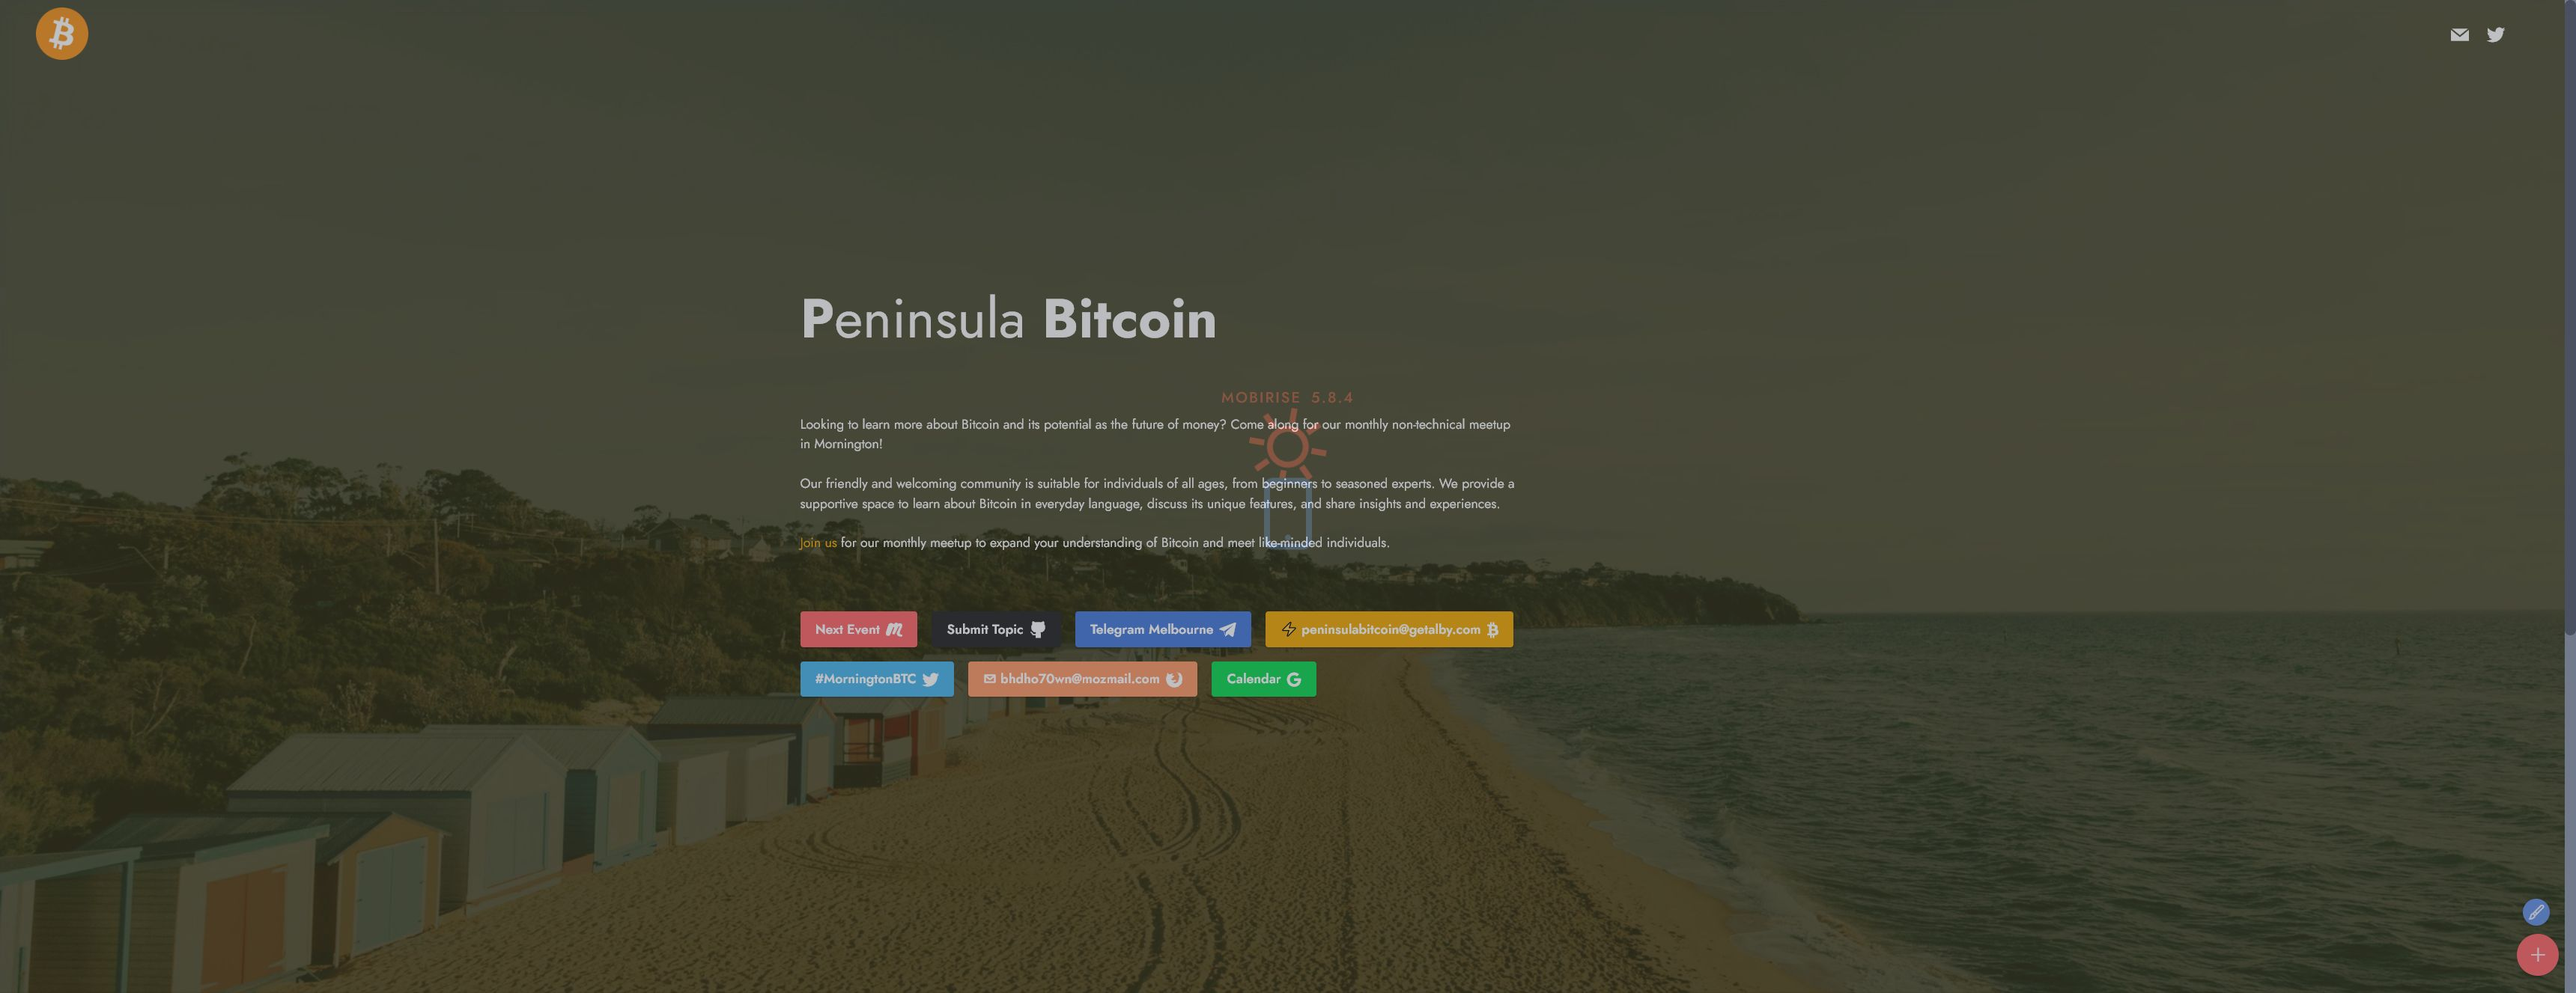
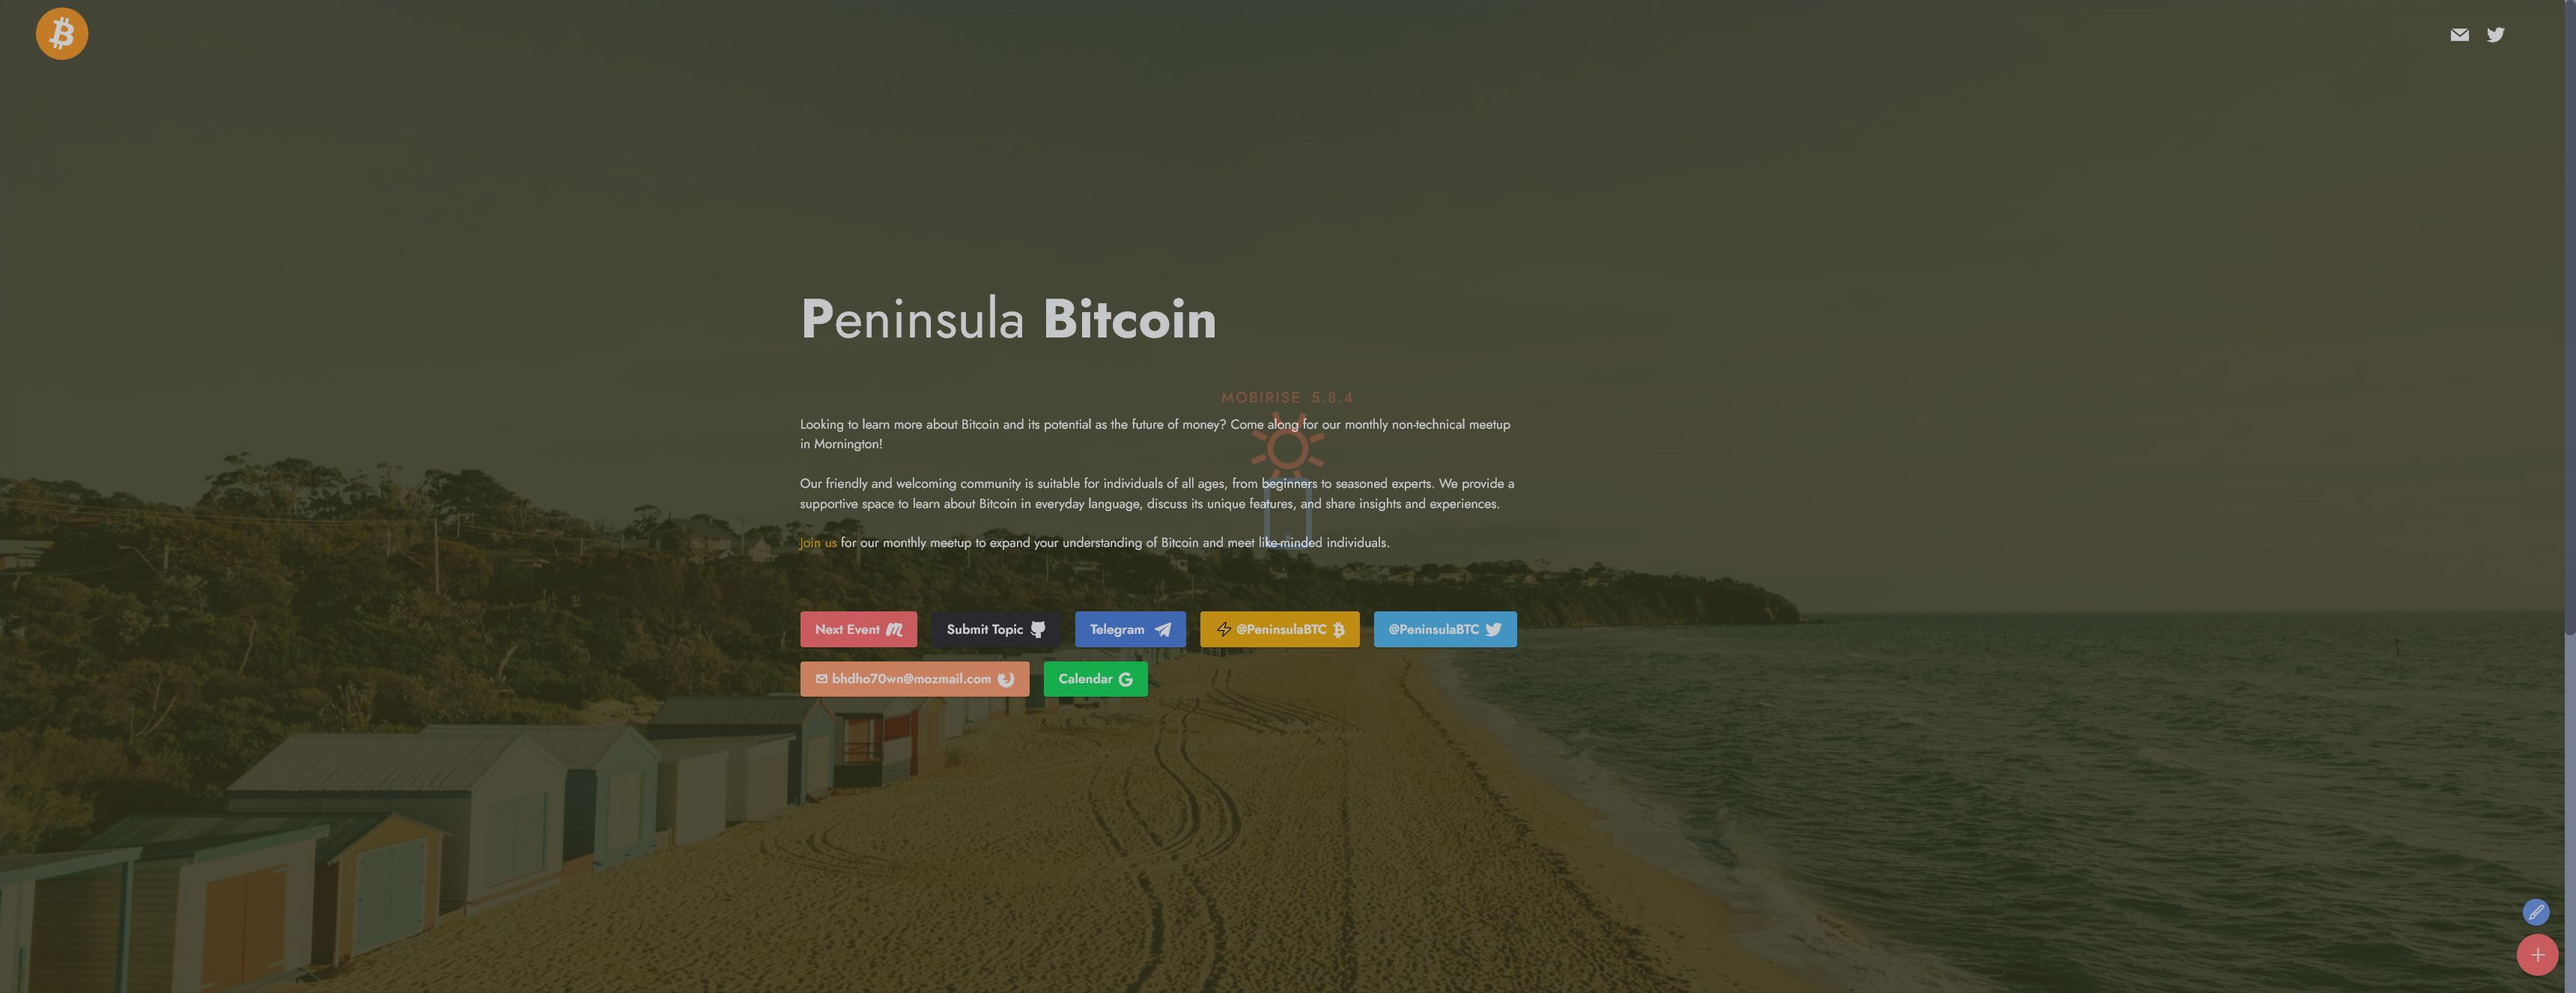
update
update

Changed region(s): [[0.311, 0.6179, 0.591, 0.7106], [0.4666, 0.4017, 0.5288, 0.4943]]

diff --git a/index.html b/index.html
@@ -16,8 +16,8 @@
   <link rel="stylesheet" href="assets/bootstrap/css/bootstrap-grid.min.css">
   <link rel="stylesheet" href="assets/bootstrap/css/bootstrap-reboot.min.css">
   <link rel="stylesheet" href="assets/parallax/jarallax.css">
-  <link rel="stylesheet" href="assets/popup-overlay-plugin/style.css">
   <link rel="stylesheet" href="assets/smart-cart/minicart-theme.css">
+  <link rel="stylesheet" href="assets/popup-overlay-plugin/style.css">
   <link rel="stylesheet" href="assets/dropdown/css/style.css">
   <link rel="stylesheet" href="assets/socicon/css/styles.css">
   <link rel="stylesheet" href="assets/theme/css/style.css">
@@ -55,10 +55,10 @@
                 
                 <div class="icons-menu">
                     <a class="iconfont-wrapper" href="mailto:bhdho70wn@mozmail.com">
-                        <span class="p-2 mbr-iconfont socicon-mail socicon" style="color: rgb(255, 255, 255); fill: rgb(255, 255, 255);"></span>
+                        <span class="p-2 mbr-iconfont socicon-mail socicon" style="color: rgb(242, 169, 0); fill: rgb(242, 169, 0);"></span>
                     </a>
                     <a class="iconfont-wrapper" href="https://twitter.com/PeninsulaBTC" target="_blank">
-                        <span class="p-2 mbr-iconfont socicon-twitter socicon" style="color: rgb(255, 255, 255); fill: rgb(255, 255, 255);"></span>
+                        <span class="p-2 mbr-iconfont socicon-twitter socicon" style="color: rgb(242, 169, 0); fill: rgb(242, 169, 0);"></span>
                     </a>
                     
                     
@@ -90,7 +90,7 @@
 <br>Our friendly and welcoming community is suitable for individuals of all ages, from beginners to seasoned experts. We provide a supportive space to learn about Bitcoin in everyday language, discuss its unique features, and share insights and experiences.
 <br>
 <br><a href="https://www.meetup.com/melbourne-bitcoin-only/events/" class="text-primary" target="_blank">Join us </a>for our monthly meetup to expand your understanding of Bitcoin and meet like-minded individuals.<br><br><br></p>
-                    <div class="mbr-section-btn"><a class="btn btn-secondary display-4" href="https://www.meetup.com/melbourne-bitcoin-only/events/" target="_blank"><span class="socicon socicon-meetup mbr-iconfont mbr-iconfont-btn"></span>Next Event</a> <a class="btn btn-black display-4" href="https://github.com/PeninsulaBitcoin/peninsulabitcoin.github.io/issues" target="_blank"><span class="socicon socicon-github mbr-iconfont mbr-iconfont-btn"></span>Submit Topic</a> <a class="btn btn-info display-4" href="tg://resolve?domain=https://t.me/btcmelbourne"><span class="socicon socicon-telegram mbr-iconfont mbr-iconfont-btn"></span>Telegram&nbsp;</a>  <a class="btn btn-primary display-4" href="https://tippin.me/@PeninsulaBTC" target="_blank"><span class="fa fa-bitcoin mbr-iconfont mbr-iconfont-btn"></span>⚡ @PeninsulaBTC</a> <a class="btn btn-danger display-4" href="https://twitter.com/PeninsulaBTC" target="_blank"><span class="socicon socicon-twitter mbr-iconfont mbr-iconfont-btn"></span>@PeninsulaBTC</a> <a class="btn btn-warning display-4" href="mailto:15s59m84y@mozmail.com"><span class="socicon socicon-firefox mbr-iconfont mbr-iconfont-btn"></span>✉ bhdho70wn@mozmail.com</a> <a class="btn btn-success display-4" href="index.html#custom-html-4"><span class="fa fa-google mbr-iconfont mbr-iconfont-btn"></span>Calendar</a></div>
+                    <div class="mbr-section-btn"><a class="btn btn-secondary display-4" href="https://www.meetup.com/melbourne-bitcoin-only/events/" target="_blank"><span class="socicon socicon-meetup mbr-iconfont mbr-iconfont-btn"></span>Next Event</a> <a class="btn btn-black display-4" href="https://github.com/PeninsulaBitcoin/peninsulabitcoin.github.io/issues" target="_blank"><span class="socicon socicon-github mbr-iconfont mbr-iconfont-btn"></span>Submit Topic</a> <a class="btn btn-info display-4" href="tg://resolve?domain=https://t.me/btcmelbourne"><span class="socicon socicon-telegram mbr-iconfont mbr-iconfont-btn"></span>Telegram&nbsp;</a>  <a class="btn btn-primary display-4" href="https://tippin.me/@PeninsulaBTC" target="_blank"><span class="fa fa-bitcoin mbr-iconfont mbr-iconfont-btn"></span>⚡ @PeninsulaBTC</a> <a class="btn btn-danger display-4" href="https://twitter.com/PeninsulaBTC" target="_blank"><span class="socicon socicon-twitter mbr-iconfont mbr-iconfont-btn"></span>@PeninsulaBTC</a> <a class="btn btn-warning display-4" href="mailto:15s59m84y@mozmail.com"><span class="socicon socicon-mail mbr-iconfont mbr-iconfont-btn"></span>bhdho70wn@mozmail.com</a> <a class="btn btn-success display-4" href="index.html#custom-html-4"><span class="fa fa-google mbr-iconfont mbr-iconfont-btn"></span>Calendar</a></div>
                 </div>
             </div>
         </div>

diff --git a/assets/mobirise/css/mbr-additional.css b/assets/mobirise/css/mbr-additional.css
@@ -1034,7 +1034,7 @@ a {
 }
 .cid-twn4QNLQUq {
   padding-top: 5rem;
-  padding-bottom: 5rem;
+  padding-bottom: 6rem;
   background-image: url("../../../assets/images/gettyimages-810767304.webp");
 }
 @media (min-width: 768px) {
